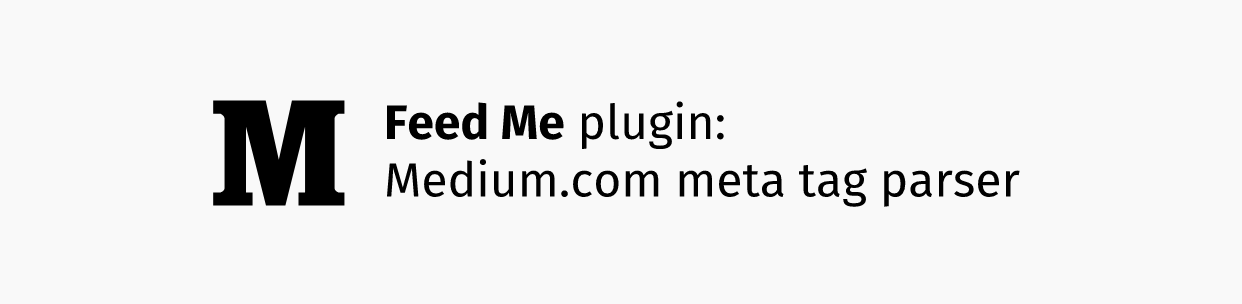
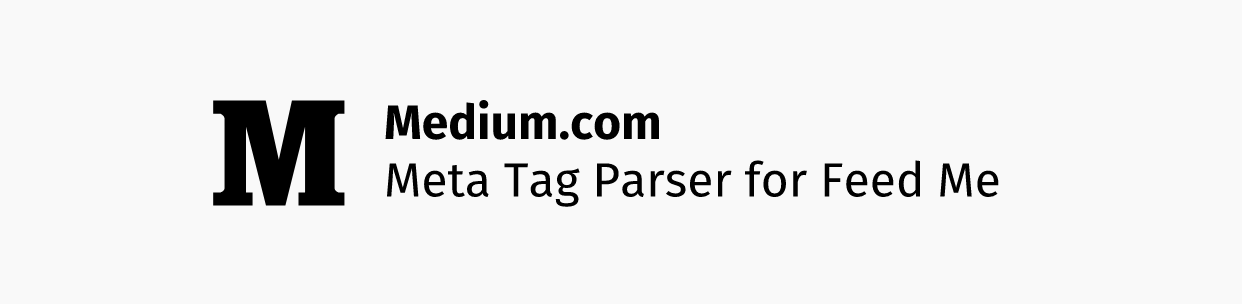
Name (and handles accordingly) changed from "Feed Me - Medium.com meta tag parser" to "Medium.com Meta Tag Parser for Feed Me"

Changed region(s): [[0.3366, 0.5329, 0.8261, 0.6809], [0.306, 0.3257, 0.5813, 0.5033]]

diff --git a/src/FeedMeMediumComMetaTagParser.php b/src/FeedMeMediumComMetaTagParser.php
@@ -1,6 +1,6 @@
 <?php
 /**
- * Feed Me - Medium.com meta tag parser plugin for Craft CMS 3.x
+ * Medium.com Meta Tag Parser for Feed Me
  *
  * Add meta tags to Medium.com feeds - Feed Me plugin
  *
@@ -8,12 +8,12 @@
  * @copyright Copyright (c) 2019 Ottó Radics
  */
 
-namespace webmenedzser\feedmemediumcommetatagparser;
+namespace webmenedzser\mediumcommetatagparserforfeedme;
 
-use webmenedzser\feedmemediumcommetatagparser\helpers\MediumFeedCheckerHelper as MediumFeedCheckerHelper;
-use webmenedzser\feedmemediumcommetatagparser\helpers\UrlHelper as UrlHelper;
-use webmenedzser\feedmemediumcommetatagparser\helpers\XmlHelper as XmlHelper;
-use webmenedzser\feedmemediumcommetatagparser\services\MetaTagParser as MetaTagParser;
+use webmenedzser\mediumcommetatagparserforfeedme\helpers\MediumFeedCheckerHelper as MediumFeedCheckerHelper;
+use webmenedzser\mediumcommetatagparserforfeedme\helpers\UrlHelper as UrlHelper;
+use webmenedzser\mediumcommetatagparserforfeedme\helpers\XmlHelper as XmlHelper;
+use webmenedzser\mediumcommetatagparserforfeedme\services\MetaTagParser as MetaTagParser;
 
 use Craft;
 use craft\base\Plugin;
@@ -35,19 +35,19 @@ use yii\base\Event;
  * https://craftcms.com/docs/plugins/introduction
  *
  * @author    Ottó Radics
- * @package   FeedMeMediumComMetaTagParser
+ * @package   MediumComMetaTagParserForFeedMe
  * @since     1.0.0
  */
-class FeedMeMediumComMetaTagParser extends Plugin
+class MediumComMetaTagParserForFeedMe extends Plugin
 {
     // Static Properties
     // =========================================================================
 
     /**
      * Static property that is an instance of this plugin class so that it can be accessed via
-     * FeedMeMediumComMetaTagParser::$plugin
+     * MediumComMetaTagParserForFeedMe::$plugin
      *
-     * @var FeedMeMediumComMetaTagParser
+     * @var MediumComMetaTagParserForFeedMe
      */
     public static $plugin;
 
@@ -94,7 +94,7 @@ class FeedMeMediumComMetaTagParser extends Plugin
 
     /**
      * Set our $plugin static property to this class so that it can be accessed via
-     * FeedMeMediumComMetaTagParser::$plugin
+     * MediumComMetaTagParserForFeedMe::$plugin
      *
      * Called after the plugin class is instantiated; do any one-time initialization
      * here such as hooks and events.

diff --git a/src/helpers/LogHelper.php b/src/helpers/LogHelper.php
@@ -1,6 +1,6 @@
 <?php
 /**
- * Feed Me - Medium.com meta tag parser plugin for Craft CMS 3.x
+ * Medium.com Meta Tag Parser for Feed Me
  *
  * Add meta tags to Medium.com feeds - Feed Me plugin
  *
@@ -8,9 +8,9 @@
  * @copyright Copyright (c) 2019 Ottó Radics
  */
 
-namespace webmenedzser\feedmemediumcommetatagparser\helpers;
+namespace webmenedzser\mediumcommetatagparserforfeedme\helpers;
 
-use webmenedzser\feedmemediumcommetatagparser\FeedMeMediumComMetaTagParser;
+use webmenedzser\mediumcommetatagparserforfeedme\MediumComMetaTagParserForFeedMe;
 
 use Craft;
 use craft\base\Component;
@@ -18,7 +18,7 @@ use craft\helpers;
 
 /**
  * @author    Ottó Radics
- * @package   FeedMeMediumComMetaTagParser
+ * @package   MediumComMetaTagParserForFeedMe
  * @since     1.0.0
  */
 class LogHelper extends Component

diff --git a/src/helpers/UrlHelper.php b/src/helpers/UrlHelper.php
@@ -1,6 +1,6 @@
 <?php
 /**
- * Feed Me - Medium.com meta tag parser plugin for Craft CMS 3.x
+ * Medium.com Meta Tag Parser for Feed Me
  *
  * Add meta tags to Medium.com feeds - Feed Me plugin
  *
@@ -8,9 +8,9 @@
  * @copyright Copyright (c) 2019 Ottó Radics
  */
 
-namespace webmenedzser\feedmemediumcommetatagparser\helpers;
+namespace webmenedzser\mediumcommetatagparserforfeedme\helpers;
 
-use webmenedzser\feedmemediumcommetatagparser\FeedMeMediumComMetaTagParser;
+use webmenedzser\mediumcommetatagparserforfeedme\MediumComMetaTagParserForFeedMe;
 
 use Craft;
 use craft\base\Component;
@@ -18,7 +18,7 @@ use craft\helpers;
 
 /**
  * @author    Ottó Radics
- * @package   FeedMeMediumComMetaTagParser
+ * @package   MediumComMetaTagParserForFeedMe
  * @since     1.0.0
  */
 class UrlHelper extends Component

diff --git a/src/helpers/XmlHelper.php b/src/helpers/XmlHelper.php
@@ -1,6 +1,6 @@
 <?php
 /**
- * Feed Me - Medium.com meta tag parser plugin for Craft CMS 3.x
+ * Medium.com Meta Tag Parser for Feed Me
  *
  * Add meta tags to Medium.com feeds - Feed Me plugin
  *
@@ -8,9 +8,9 @@
  * @copyright Copyright (c) 2019 Ottó Radics
  */
 
-namespace webmenedzser\feedmemediumcommetatagparser\helpers;
+namespace webmenedzser\mediumcommetatagparserforfeedme\helpers;
 
-use webmenedzser\feedmemediumcommetatagparser\FeedMeMediumComMetaTagParser;
+use webmenedzser\mediumcommetatagparserforfeedme\MediumComMetaTagParserForFeedMe;
 
 use Craft;
 use craft\base\Component;
@@ -18,7 +18,7 @@ use craft\helpers;
 
 /**
  * @author    Ottó Radics
- * @package   FeedMeMediumComMetaTagParser
+ * @package   MediumComMetaTagParserForFeedMe
  * @since     1.0.0
  */
 class XmlHelper extends Component

diff --git a/src/helpers/MediumFeedCheckerHelper.php b/src/helpers/MediumFeedCheckerHelper.php
@@ -1,6 +1,6 @@
 <?php
 /**
- * Feed Me - Medium.com meta tag parser plugin for Craft CMS 3.x
+ * Medium.com Meta Tag Parser for Feed Me
  *
  * Add meta tags to Medium.com feeds - Feed Me plugin
  *
@@ -8,16 +8,16 @@
  * @copyright Copyright (c) 2019 Ottó Radics
  */
 
-namespace webmenedzser\feedmemediumcommetatagparser\helpers;
+namespace webmenedzser\mediumcommetatagparserforfeedme\helpers;
 
-use webmenedzser\feedmemediumcommetatagparser\FeedMeMediumComMetaTagParser;
+use webmenedzser\mediumcommetatagparserforfeedme\MediumComMetaTagParserForFeedMe;
 
 use Craft;
 use craft\base\Component;
 
 /**
  * @author    Ottó Radics
- * @package   FeedMeMediumComMetaTagParser
+ * @package   MediumComMetaTagParserForFeedMe
  * @since     1.0.0
  */
 class MediumFeedCheckerHelper extends Component

diff --git a/src/services/MetaTagParser.php b/src/services/MetaTagParser.php
@@ -1,6 +1,6 @@
 <?php
 /**
- * Feed Me - Medium.com meta tag parser plugin for Craft CMS 3.x
+ * Medium.com Meta Tag Parser for Feed Me
  *
  * Add meta tags to Medium.com feeds - Feed Me plugin
  *
@@ -8,10 +8,10 @@
  * @copyright Copyright (c) 2019 Ottó Radics
  */
 
-namespace webmenedzser\feedmemediumcommetatagparser\services;
+namespace webmenedzser\mediumcommetatagparserforfeedme\services;
 
-use webmenedzser\feedmemediumcommetatagparser\FeedMeMediumComMetaTagParser;
-use webmenedzser\feedmemediumcommetatagparser\helpers\UrlHelper;
+use webmenedzser\mediumcommetatagparserforfeedme\MediumComMetaTagParserForFeedMe;
+use webmenedzser\mediumcommetatagparserforfeedme\helpers\UrlHelper;
 
 use Craft;
 use craft\base\Component;

diff --git a/README.md b/README.md
@@ -1,4 +1,4 @@
-# Feed Me - Medium.com meta tag parser plugin for Craft CMS 3.x
+# Medium.com Meta Tag Parser for Feed Me
 
 ![Cover Photo](resources/img/cover-photo.png)
 
@@ -16,25 +16,25 @@ To install the plugin, follow these instructions.
 
 2. Then tell Composer to require the plugin:
 
-        composer require webmenedzser/feed-me-medium-com-meta-tag-parser
+        composer require webmenedzser/medium-com-meta-tag-parser-for-feed-me
 
-3. In the Control Panel, go to Settings → Plugins and click the “Install” button for Feed Me - Medium.com meta tag parser.
+3. In the Control Panel, go to Settings → Plugins and click the “Install” button for Medium.com Meta Tag Parser for Feed Me.
 
-## Feed Me - Medium.com meta tag parser Overview
+## Medium.com Meta Tag Parser for Feed Me Overview
 
-Medium.com doesn't expose too much meta data (og:image, descriptions, etc.) for articles in their RSS feed, so you couldn't import them into Craft CMS. This plugin solves this issue: when Feed Me fetches the feed, it checks if it is a Medium.com feed. If yes, then it visits all the articles in the feed for their metadata informations and add those as additional nodes on the feed, enhancing the feed provided by Medium.com.  
+Medium.com doesn't expose too much meta data (og:image, descriptions, etc.) for articles in their RSS feed, so you couldn't import them into Craft CMS. This plugin solves this issue: when Feed Me fetches the feed, it checks if it is a Medium.com feed. If yes, then it visits all the articles in the feed for their metadata informations and add those as additional nodes on the feed, enhancing the feed provided by Medium.com.
 
-## Configuring Feed Me - Medium.com meta tag parser
+## Configuring Medium.com Meta Tag Parser for Feed Me
 
-After installing the plugin just head over to Feed Me and edit your Feed's Field Mappings: if the feed is a feed from Medium.com, then the plugin will add additional nodes to the nodes extracted from the feed: you can map those nodes to any field (Asset field included) from now. 
+After installing the plugin just head over to Feed Me and edit your Feed's Field Mappings: if the feed is a feed from Medium.com, then the plugin will add additional nodes to the nodes extracted from the feed: you can map those nodes to any field (Asset field included) from now.
 
 **Important note**: this plugin WILL slow down your site (when `EVENT_AFTER_FETCH_FEED` and `EVENT_AFTER_PARSE_FEED` events happen), as Craft has to fetch and parse all pages in the feed. This takes time, which is usually around 5-10 seconds.
 
-## Using Feed Me - Medium.com meta tag parser
+## Using Medium.com Meta Tag Parser for Feed Me
 
-![Screenshot](resources/img/feed-me-medium-featured-image.jpg)
+![Screenshot](resources/img/featured-image.jpg)
 
-## Feed Me - Medium.com meta tag parser Roadmap
+## Medium.com Meta Tag Parser for Feed Me Roadmap
 
 Some things to do, and ideas for potential features:
 

diff --git a/CHANGELOG.md b/CHANGELOG.md
@@ -4,6 +4,14 @@ All notable changes to this project will be documented in this file.
 
 The format is based on [Keep a Changelog](http://keepachangelog.com/) and this project adheres to [Semantic Versioning](http://semver.org/).
 
-## 1.0.0 - 2019-05-10
+## 1.0.2 - 2019-06-08
+### CHANGED
+- Name (and handles accordingly) changed from "Feed Me - Medium.com meta tag parser" to "Medium.com Meta Tag Parser for Feed Me"
+
+## 1.0.1 - 2019-06-08
+### Fixed
+- "Unable to determine base path error"
+
+## 1.0.0 - 2019-06-08
 ### Added
 - Initial release
